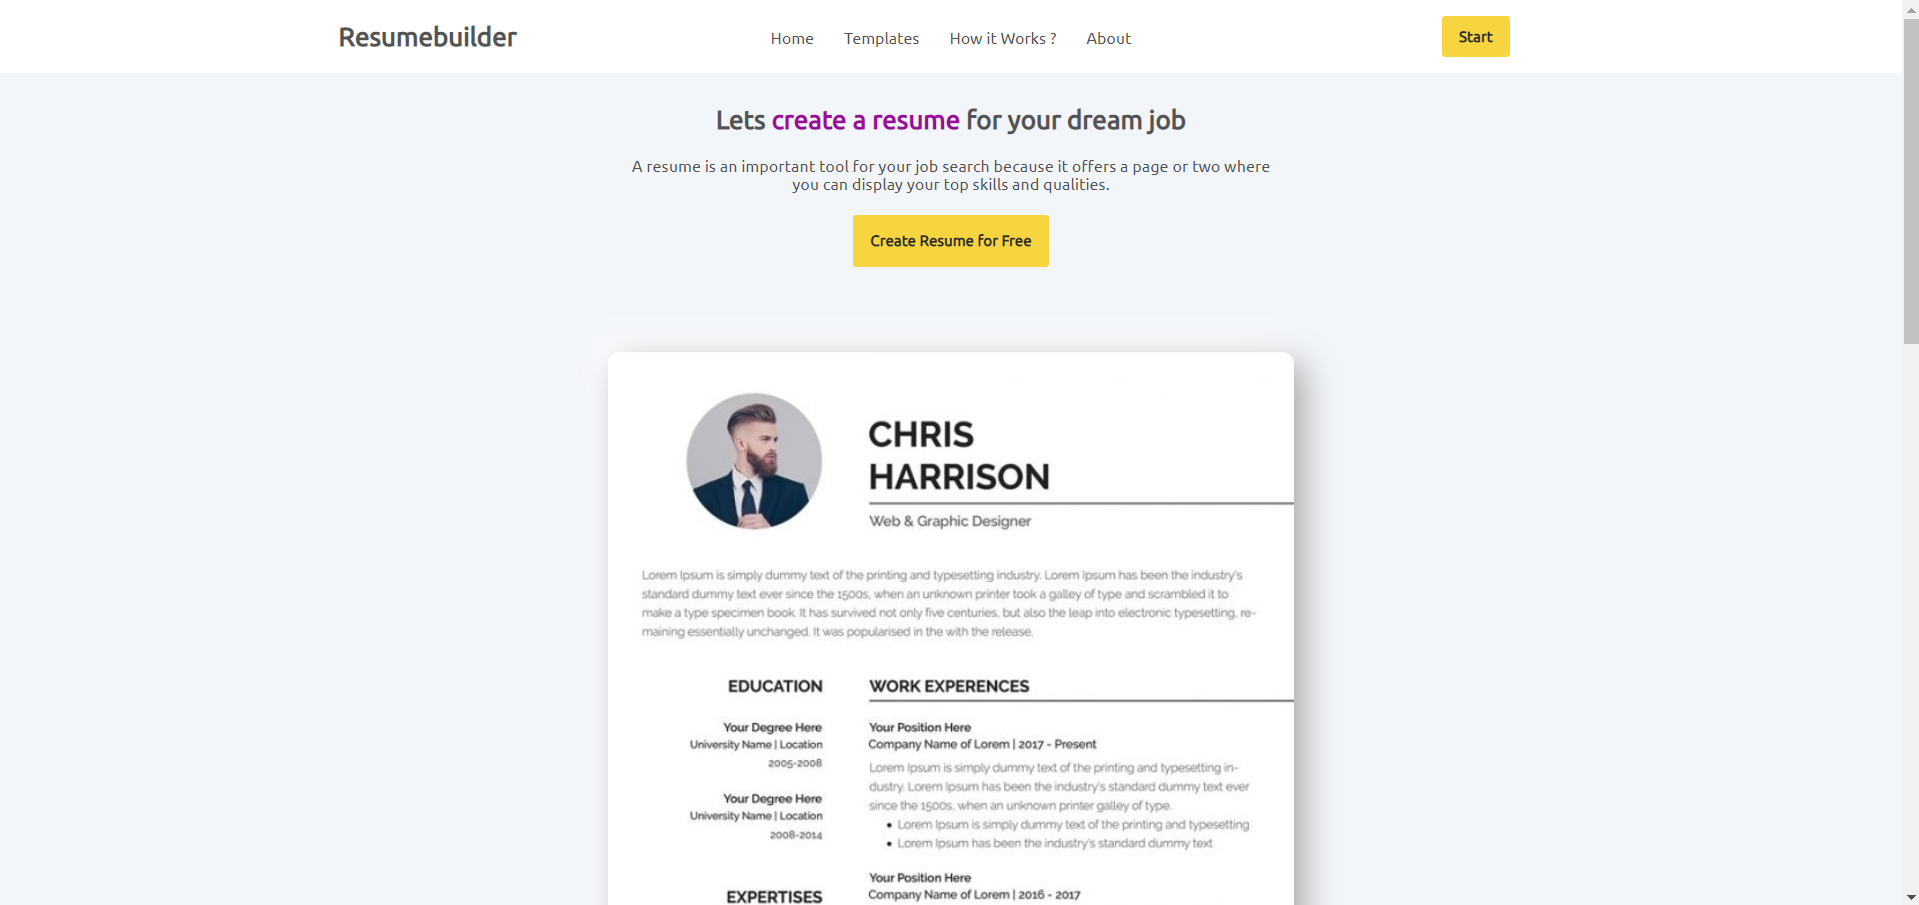
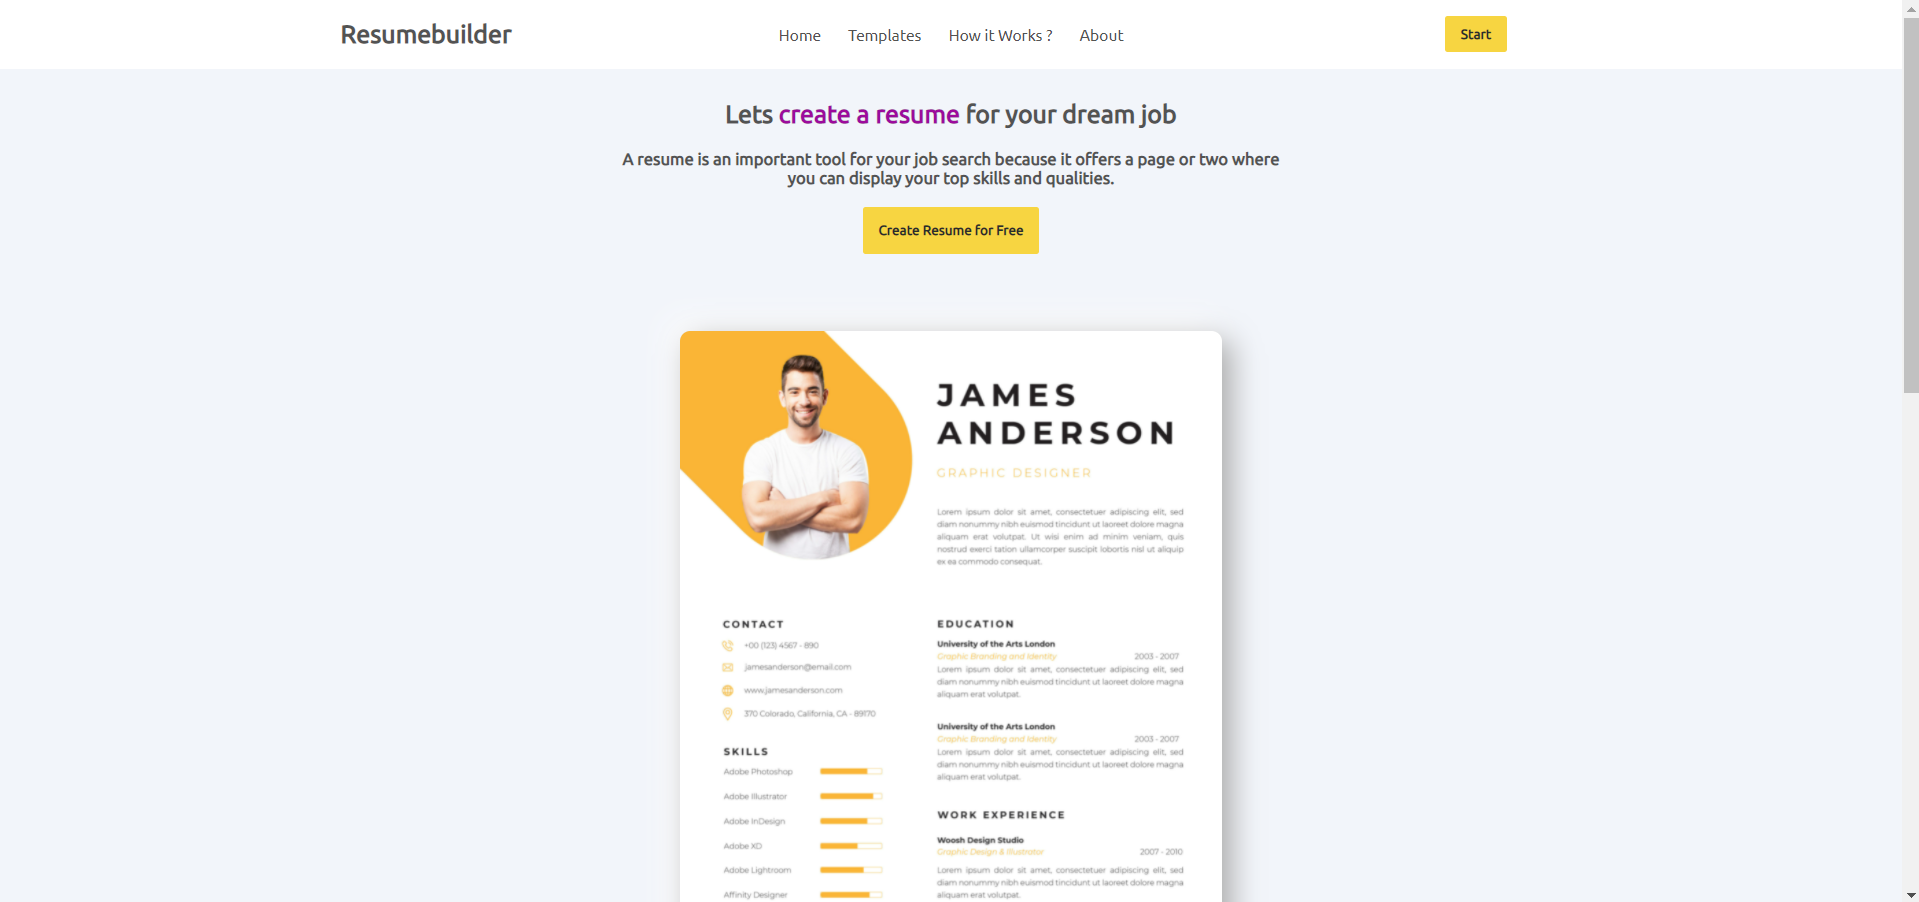
commit on master

diff --git a/src/components/Middlesec.js b/src/components/Middlesec.js
@@ -1,0 +1,20 @@
+import React from 'react'
+import '../css/Middle.css'
+export const Middlesec = () => {
+    return (
+        <div className='middlesec'>
+            <h2> Use this resume template to showcase your skills to recruiters</h2>
+            <div className="parasofmid">
+                <div className="parasparents">
+                    <span>✓ </span> <p className="flexes"> Completely free to use, create and download</p>
+                </div>
+                <div className="parasparents">
+                    <span>✓ </span> <p className="flexes"> Make an immediate impression on tech recruiters.</p>
+                </div>
+                <div className="parasparents">
+                    <span>✓ </span> <p className="flexes"> Guided resume tips to help you showcase your skills and experience</p>
+                </div>
+            </div>
+        </div>
+    )
+}

diff --git a/src/components/Templates.js b/src/components/Templates.js
@@ -9,7 +9,7 @@ export default function Templates() {
         <div className='templates'>
             <div className="templateheader">
                 <h2>Beautiful ready-to-use resume templates</h2>
-                <h4>Getting that dream job can seem like an impossible task. We’re here to change that. Give yourself a real advantage with the best online resume maker: created by experts, improved by data, trusted by millions of professionals.</h4>
+                <p>Getting that dream job can seem like an impossible task. We’re here to change that. Give yourself a real advantage with the best online resume maker: created by experts, improved by data, trusted by millions of professionals.</p>
                 <a href="/"><button className='templateselbtn'>Select Template</button></a>
             </div>
             <div className="temtimgs">

diff --git a/src/css/Middle.css b/src/css/Middle.css
@@ -1,0 +1,37 @@
+@import url('https://fonts.googleapis.com/css2?family=Ubuntu&display=swap');
+.parasofmid{
+    display: flex;
+    flex-direction: column;
+    justify-content: center;
+    align-items: center;
+}
+.parasparents{
+    width:545px;
+    display: flex;
+    flex-direction: row;
+    align-items: center;
+    justify-content: last baseline;
+}
+.flexes{
+    margin-left: 9px;
+}
+.parasparents span{
+    color: rgb(231, 198, 10);
+    font-size: 25px;
+    font-weight: bolder;
+}
+.middlesec{
+    font-family: 'Ubuntu', sans-serif;
+    background-color: rgb(242,245,250);
+    width: 100%;
+    color:rgb(83, 83, 83) ;
+   
+}
+.parasparents p{
+    font-weight: 600;
+}
+@media screen and (max-width:600px){
+    .parasparents{
+        width: 80%;
+    }
+}

diff --git a/src/Pages/Home.js b/src/Pages/Home.js
@@ -1,14 +1,14 @@
 import React from 'react'
 import '../css/Home.css'
 import Previewone from '../components/Previewone'
-import Features from '../components/Features'
 import Templates from '../components/Templates'
 import Footer from '../components/Footer'
+import { Middlesec } from '../components/Middlesec'
 export default function Home() {
     return (
         <div className='Home'>
             <Previewone></Previewone>
-            <Features></Features>
+            <Middlesec></Middlesec>
             <Templates></Templates>
             <Footer></Footer>
         </div>

diff --git a/src/components/Navbar.js b/src/components/Navbar.js
@@ -11,7 +11,6 @@ export default function Navbar() {
                 <a href="/">Templates</a>
                 <a href="/">How it Works ?</a>
                 <a href="/">About</a>
-
             </div>
             <div className="startbtn">
                 <a href="/"><button>Start</button></a>

diff --git a/src/css/Templates.css b/src/css/Templates.css
@@ -50,7 +50,16 @@
         width: 85%;
     }
 }
-.templateheader h4{
+.templateheader p{
     width: 80%;
     margin: auto;
+    font-weight: 600;
+}
+@media screen and (max-width:996px) {
+    .templateheader{
+        width: 95%;
+    }
+    .templates img{
+        margin: 20px 19px;
+    }
 }

diff --git a/src/css/Prevone.css b/src/css/Prevone.css
@@ -22,11 +22,13 @@ box-shadow:  9px 9px 28px #aaaaaa,
 .headerprevone p{
     width: 35%;
     margin:auto;
-    font-size: 14px;
+    /* font-size: 14px; */
     margin-bottom: 19px;
+    font-weight: 600;
 }
 .headerprevone{
     padding-top: 9px;
+    
 }
 .mb-3{
      margin-bottom: 15px;

diff --git a/src/components/Previewone.js b/src/components/Previewone.js
@@ -1,5 +1,5 @@
 import React from 'react'
-import previmg from '../images/temp-prev3.jpg'
+import previmg from '../images/temp-prev4.jpg'
 import '../css/Prevone.css'
 export default function Previewone() {
     return (

diff --git a/src/css/Navbar.css b/src/css/Navbar.css
@@ -21,7 +21,8 @@
     text-decoration: none;
 }
 .tagsnav a{
-    font-size: 13.85px;
+    font-weight: 500;
+    font-size: 15px;
     text-decoration: none;
     margin: 0 13px;
     color: black;
